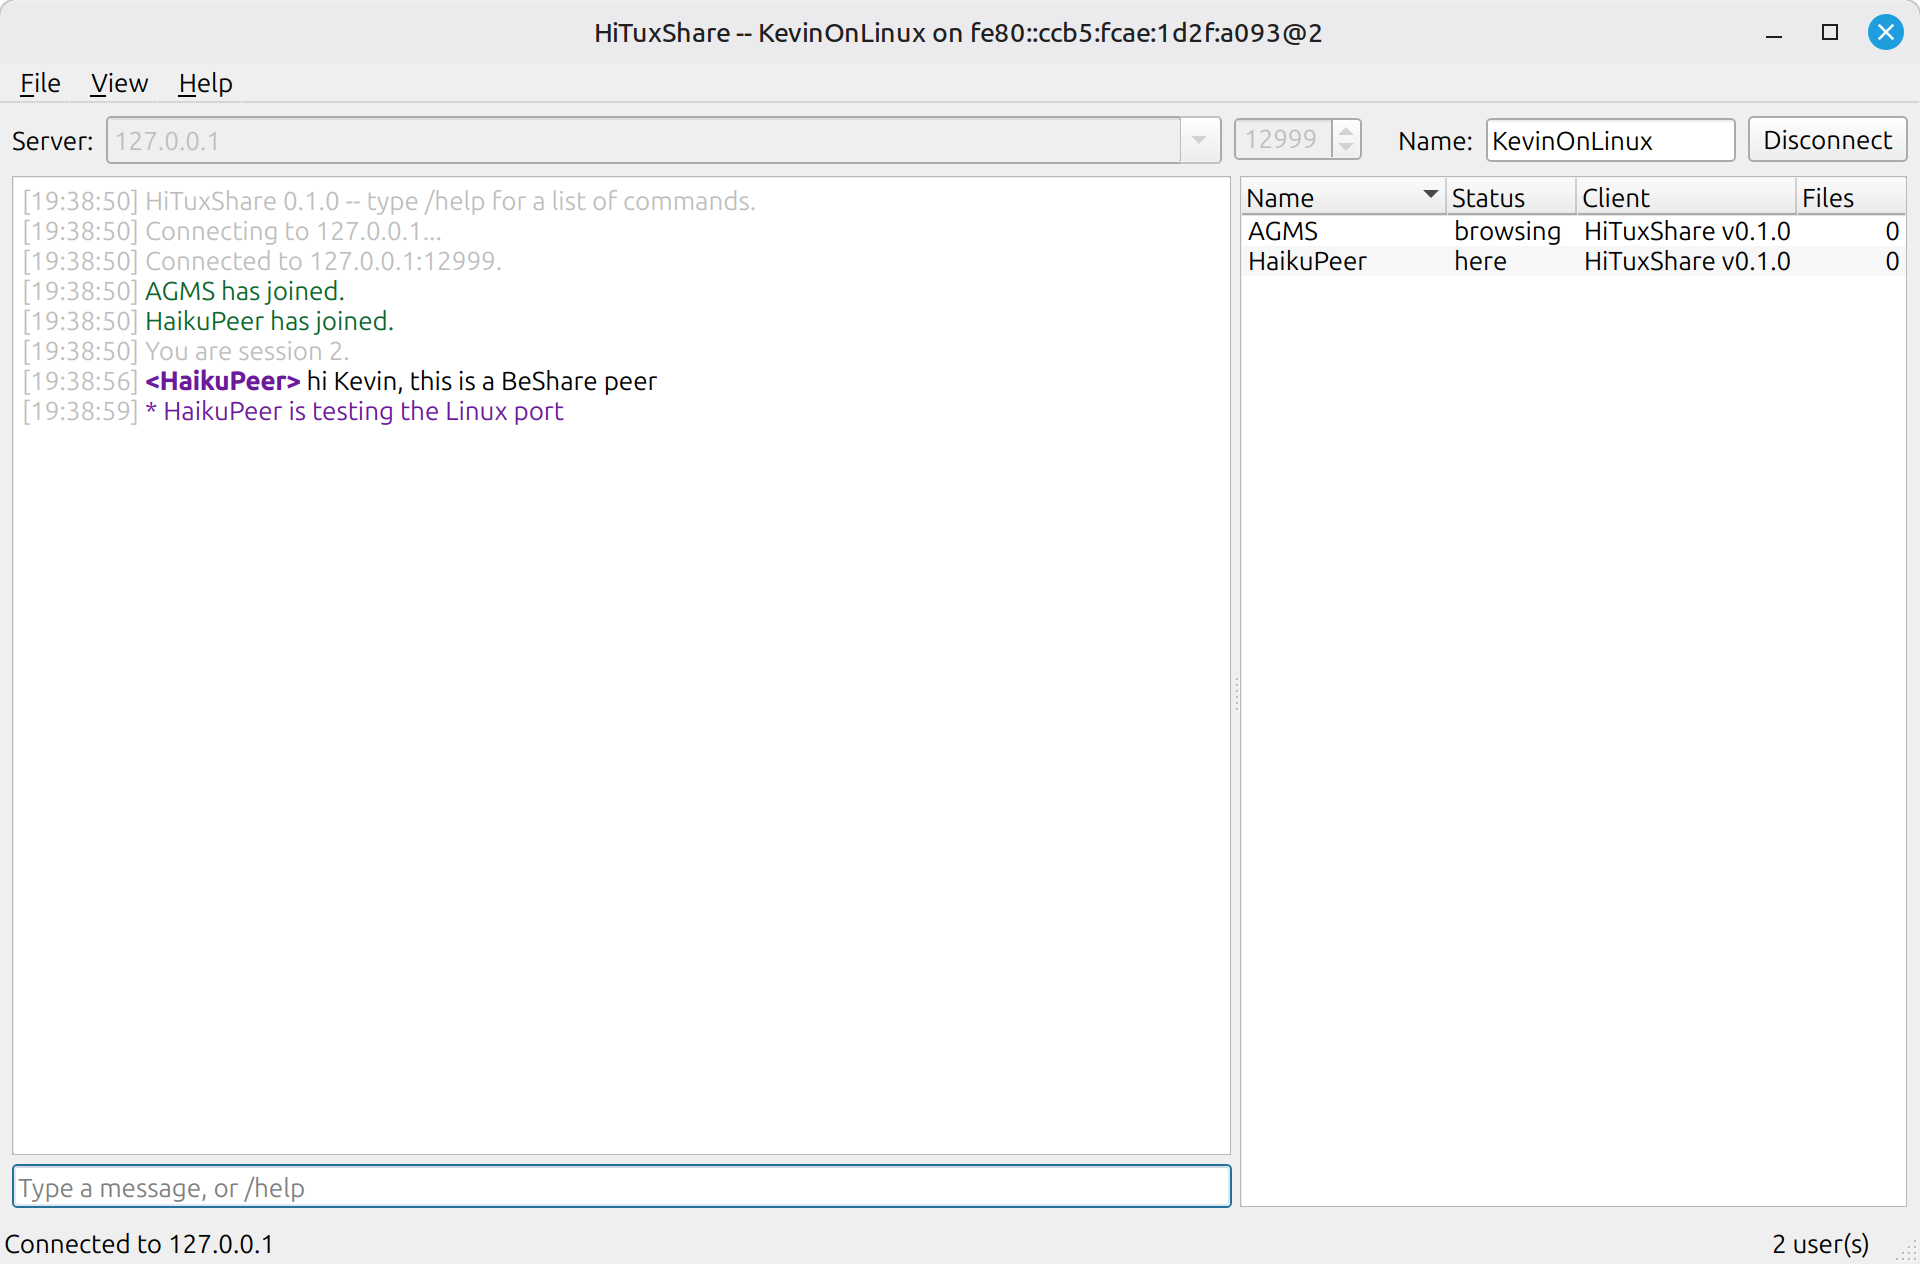
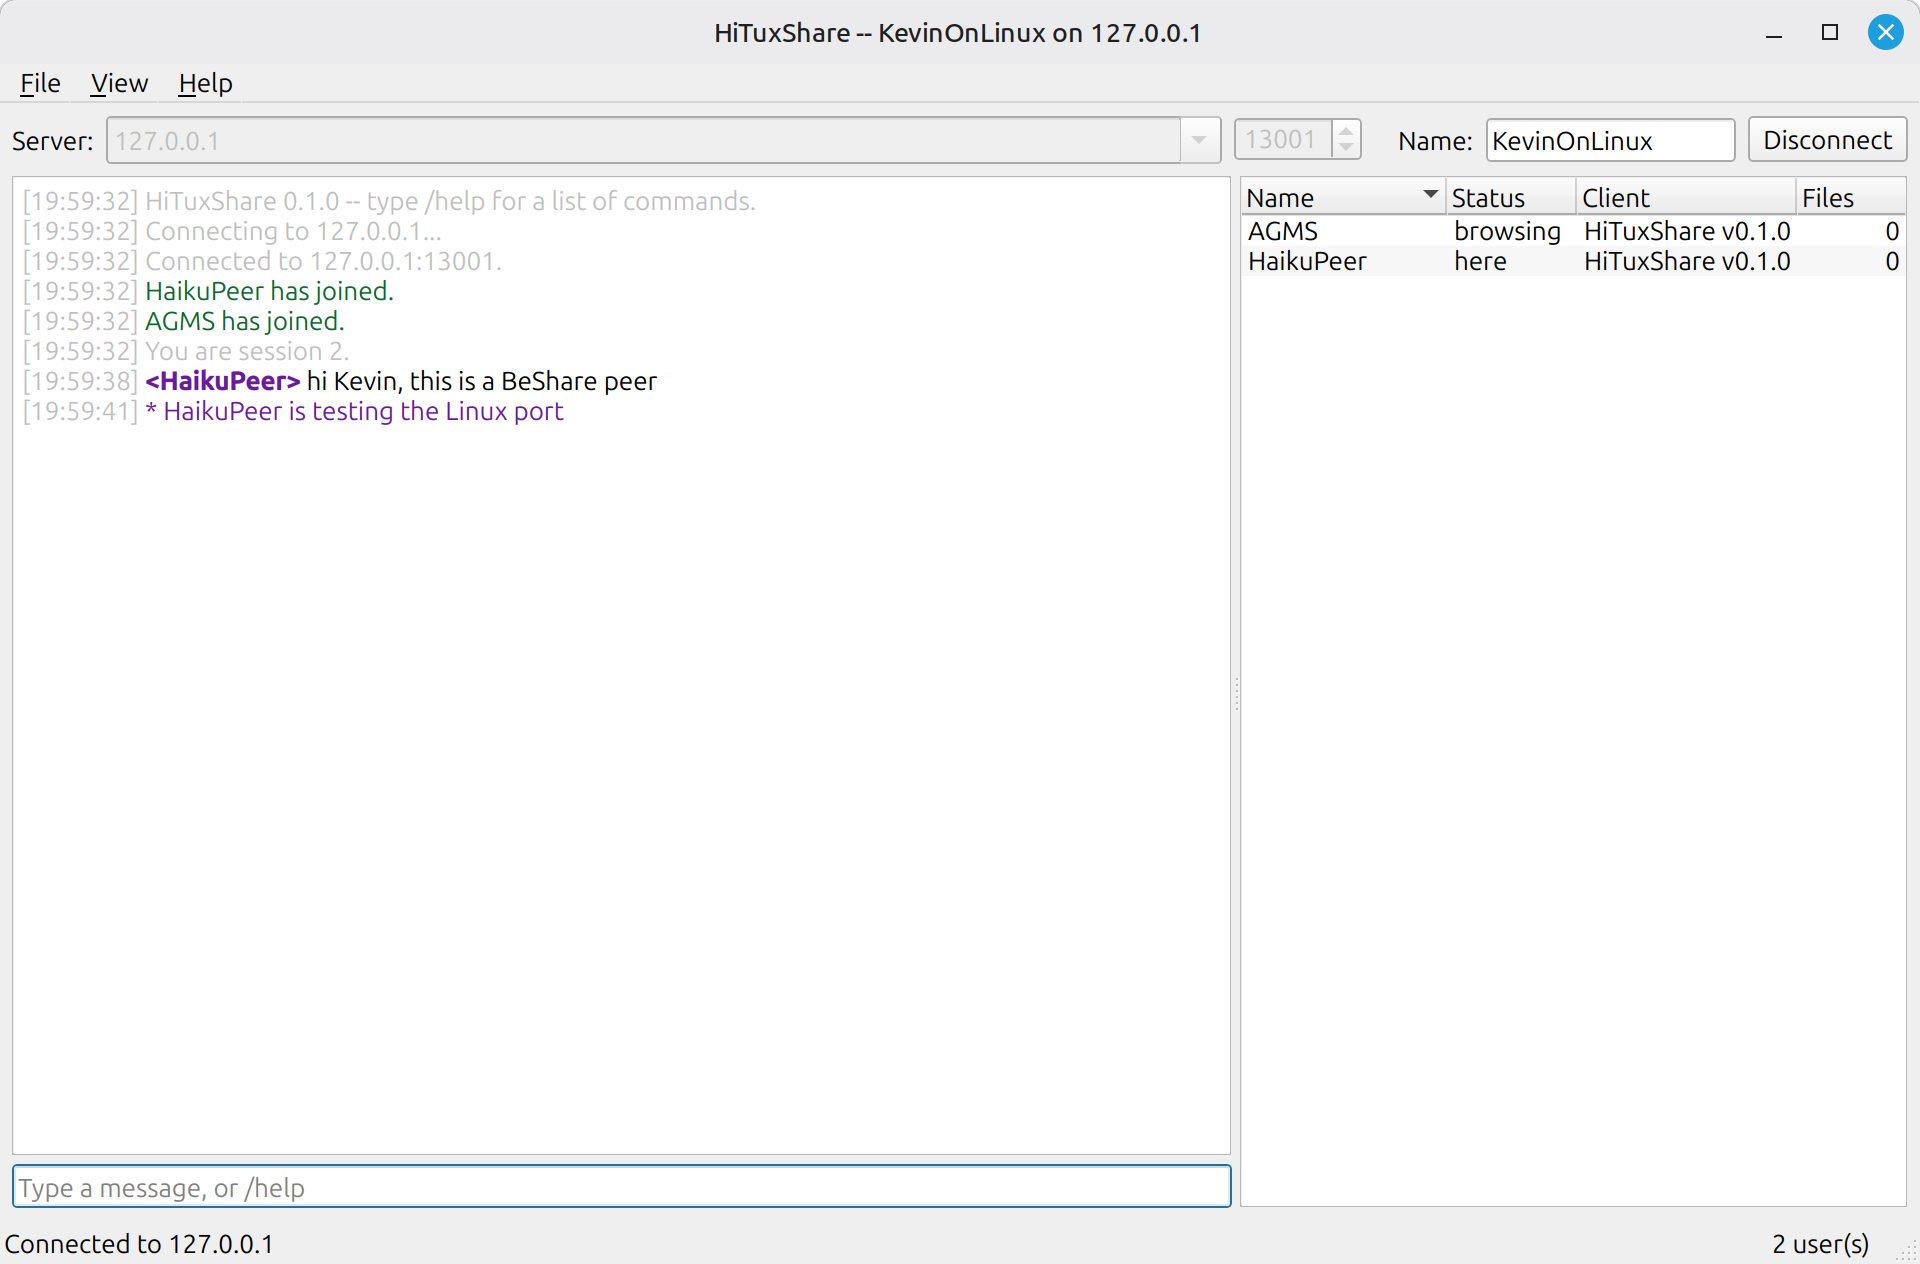
Show the server in the window title, not our own IP address
The title was built from the hostName the server reports back in
PR_NAME_SESSION_ROOT.  That value is not the server's address -- it is the
address the server sees US at, i.e. the user's own public IP.  Putting it in
the title bar is both useless and something nobody expects to be broadcasting
during a screen-share or a screenshot; the server they are connected to is the
thing they actually want to see there.

Also swaps the README screenshot for one taken against beshare.agmsmith.ca
with real Haiku/BeOS peers on it, and drops an earlier screenshot that had the
public IP baked into its title bar.

Note: the earlier screenshot was also purged from this branch's history with
filter-branch before any of it was pushed anywhere.

diff --git a/qt/MainWindow.cpp b/qt/MainWindow.cpp
@@ -388,7 +388,7 @@ MainWindow::ConnectionStateChanged(ConnectionState state)
 
 
 void
-MainWindow::LocalSessionIdAssigned(const String& sessionId, const String& hostName)
+MainWindow::LocalSessionIdAssigned(const String& sessionId, const String& /*hostName*/)
 {
 	// Promote only now, not at connect time: reaching a session ID is the first point
 	// at which we know the server is a working BeShare server and not just a socket
@@ -396,10 +396,14 @@ MainWindow::LocalSessionIdAssigned(const String& sessionId, const String& hostNa
 	fSettings.RememberServer(fConnection.GetServerAddress());
 	_PopulateServerList();
 
+	// Deliberately the server's address, not the (hostName) the server reports back.
+	// That value is the address the server sees US at -- i.e. the user's own public IP
+	// -- which is both useless in a title bar and something they would not expect to
+	// be putting on screen during a screen-share or a screenshot.
 	setWindowTitle(tr("%1 -- %2 on %3")
 		.arg(QLatin1String(HITUX_SHARE_NAME),
 			ToQString(fConnection.GetLocalUserName()),
-			ToQString(hostName)));
+			ToQString(fConnection.GetServerAddress())));
 
 	_AppendLocalLine(LOG_INFORMATION_MESSAGE,
 		tr("You are session %1.").arg(ToQString(sessionId)));

diff --git a/README.md b/README.md
@@ -1,11 +1,14 @@
+<p align="center">
+  <img src="assets/icon/hituxshare.svg" width="128" alt="HiTuxShare icon">
+</p>
+
 # HiTuxShare
 
 A native Linux port of [HiShare](https://github.com/atomozero/HiShare) — itself the
 modernized edition of Jeremy Friesner's BeShare — speaking the same
-[MUSCLE](https://github.com/jfriesne/muscle) protocol, so it joins the same chat
-rooms, user lists and file queries as the Haiku clients.
+[MUSCLE](https://github.com/jfriesne/muscle) protocol, so it joins the same chats, user lists and file queries as the Haiku clients.
 
-![HiTuxShare in a conversation](docs/screenshots/hitux-phase1.png)
+![HiTuxShare in a conversation](docs/screenshots/HiTuxShare.png)
 
 ## Status
 
@@ -25,11 +28,6 @@ list with status / client / file-count columns, public chat, `/me` actions, priv
 messages, ping with round-trip timing, nickname changes, input history, nickname
 tab-completion, timestamps, light and dark themes, and persistent settings including
 window and splitter geometry.
-
-The app icon is BeShare's, converted from HiShare's original HVIF vector source —
-see [`assets/icon/README.md`](assets/icon/README.md).
-
-Binaries are **2.3 MB stripped** and idle at 0% CPU.
 
 ## Build
 
